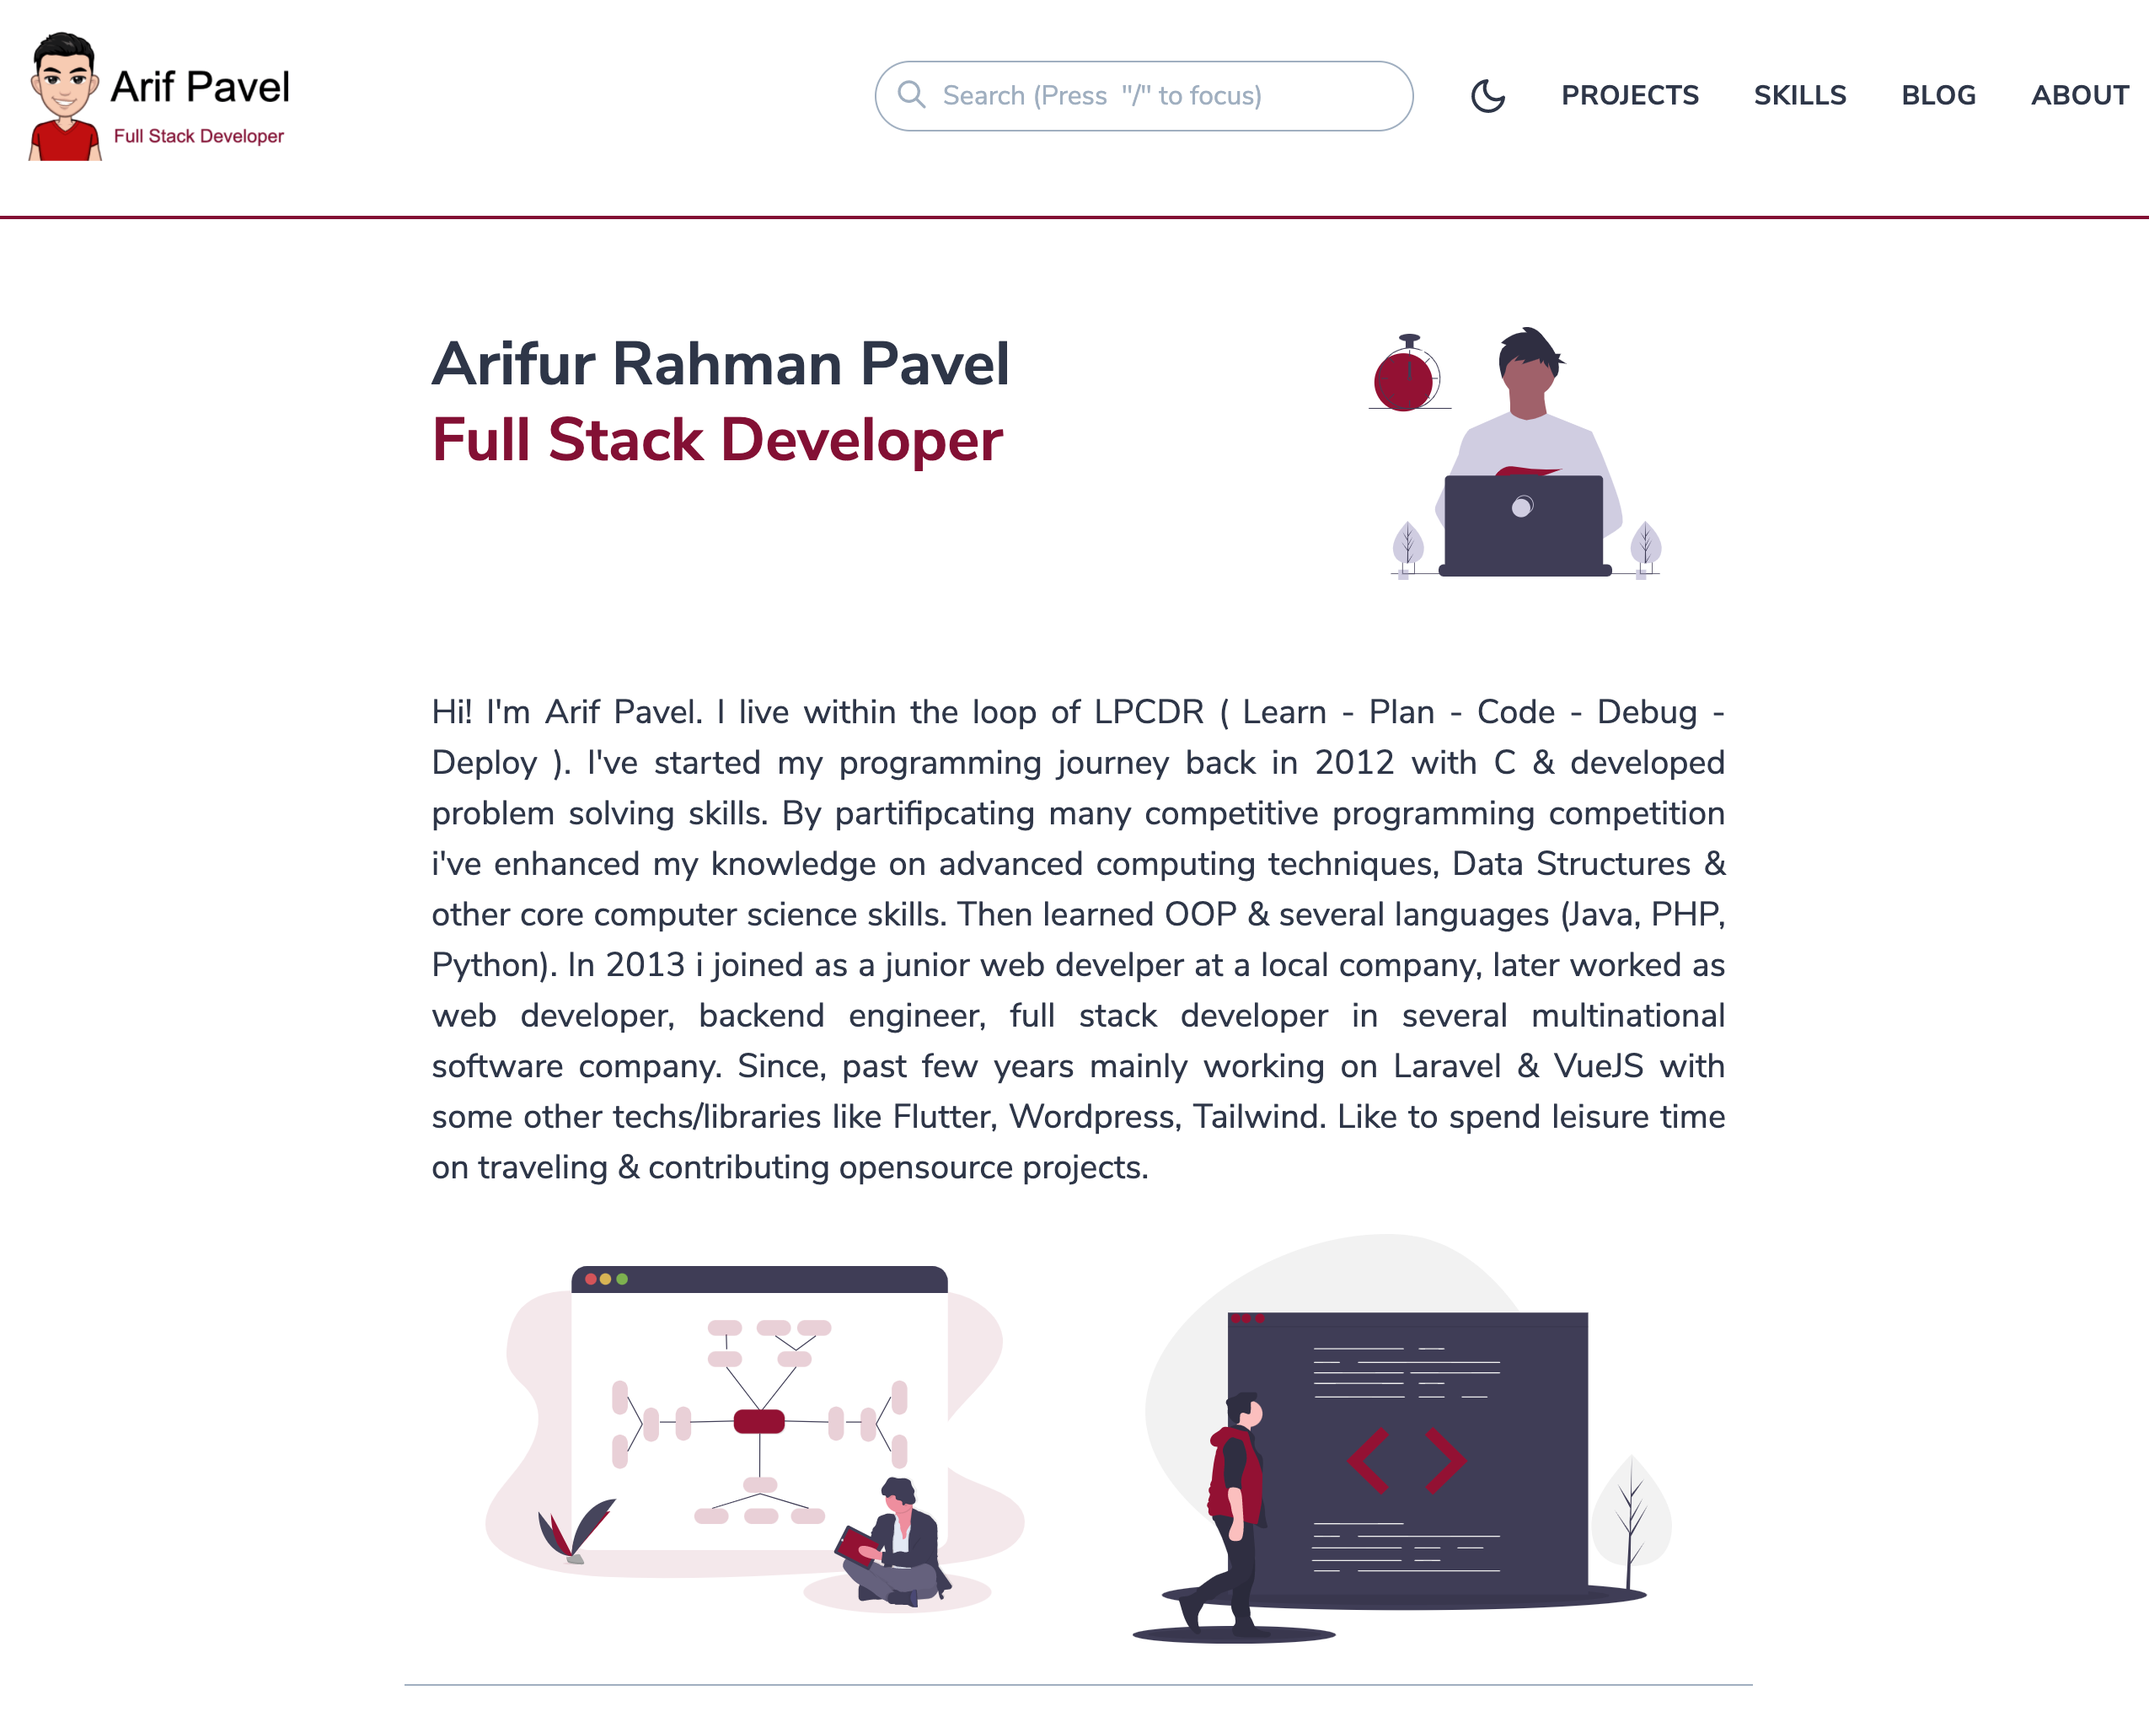
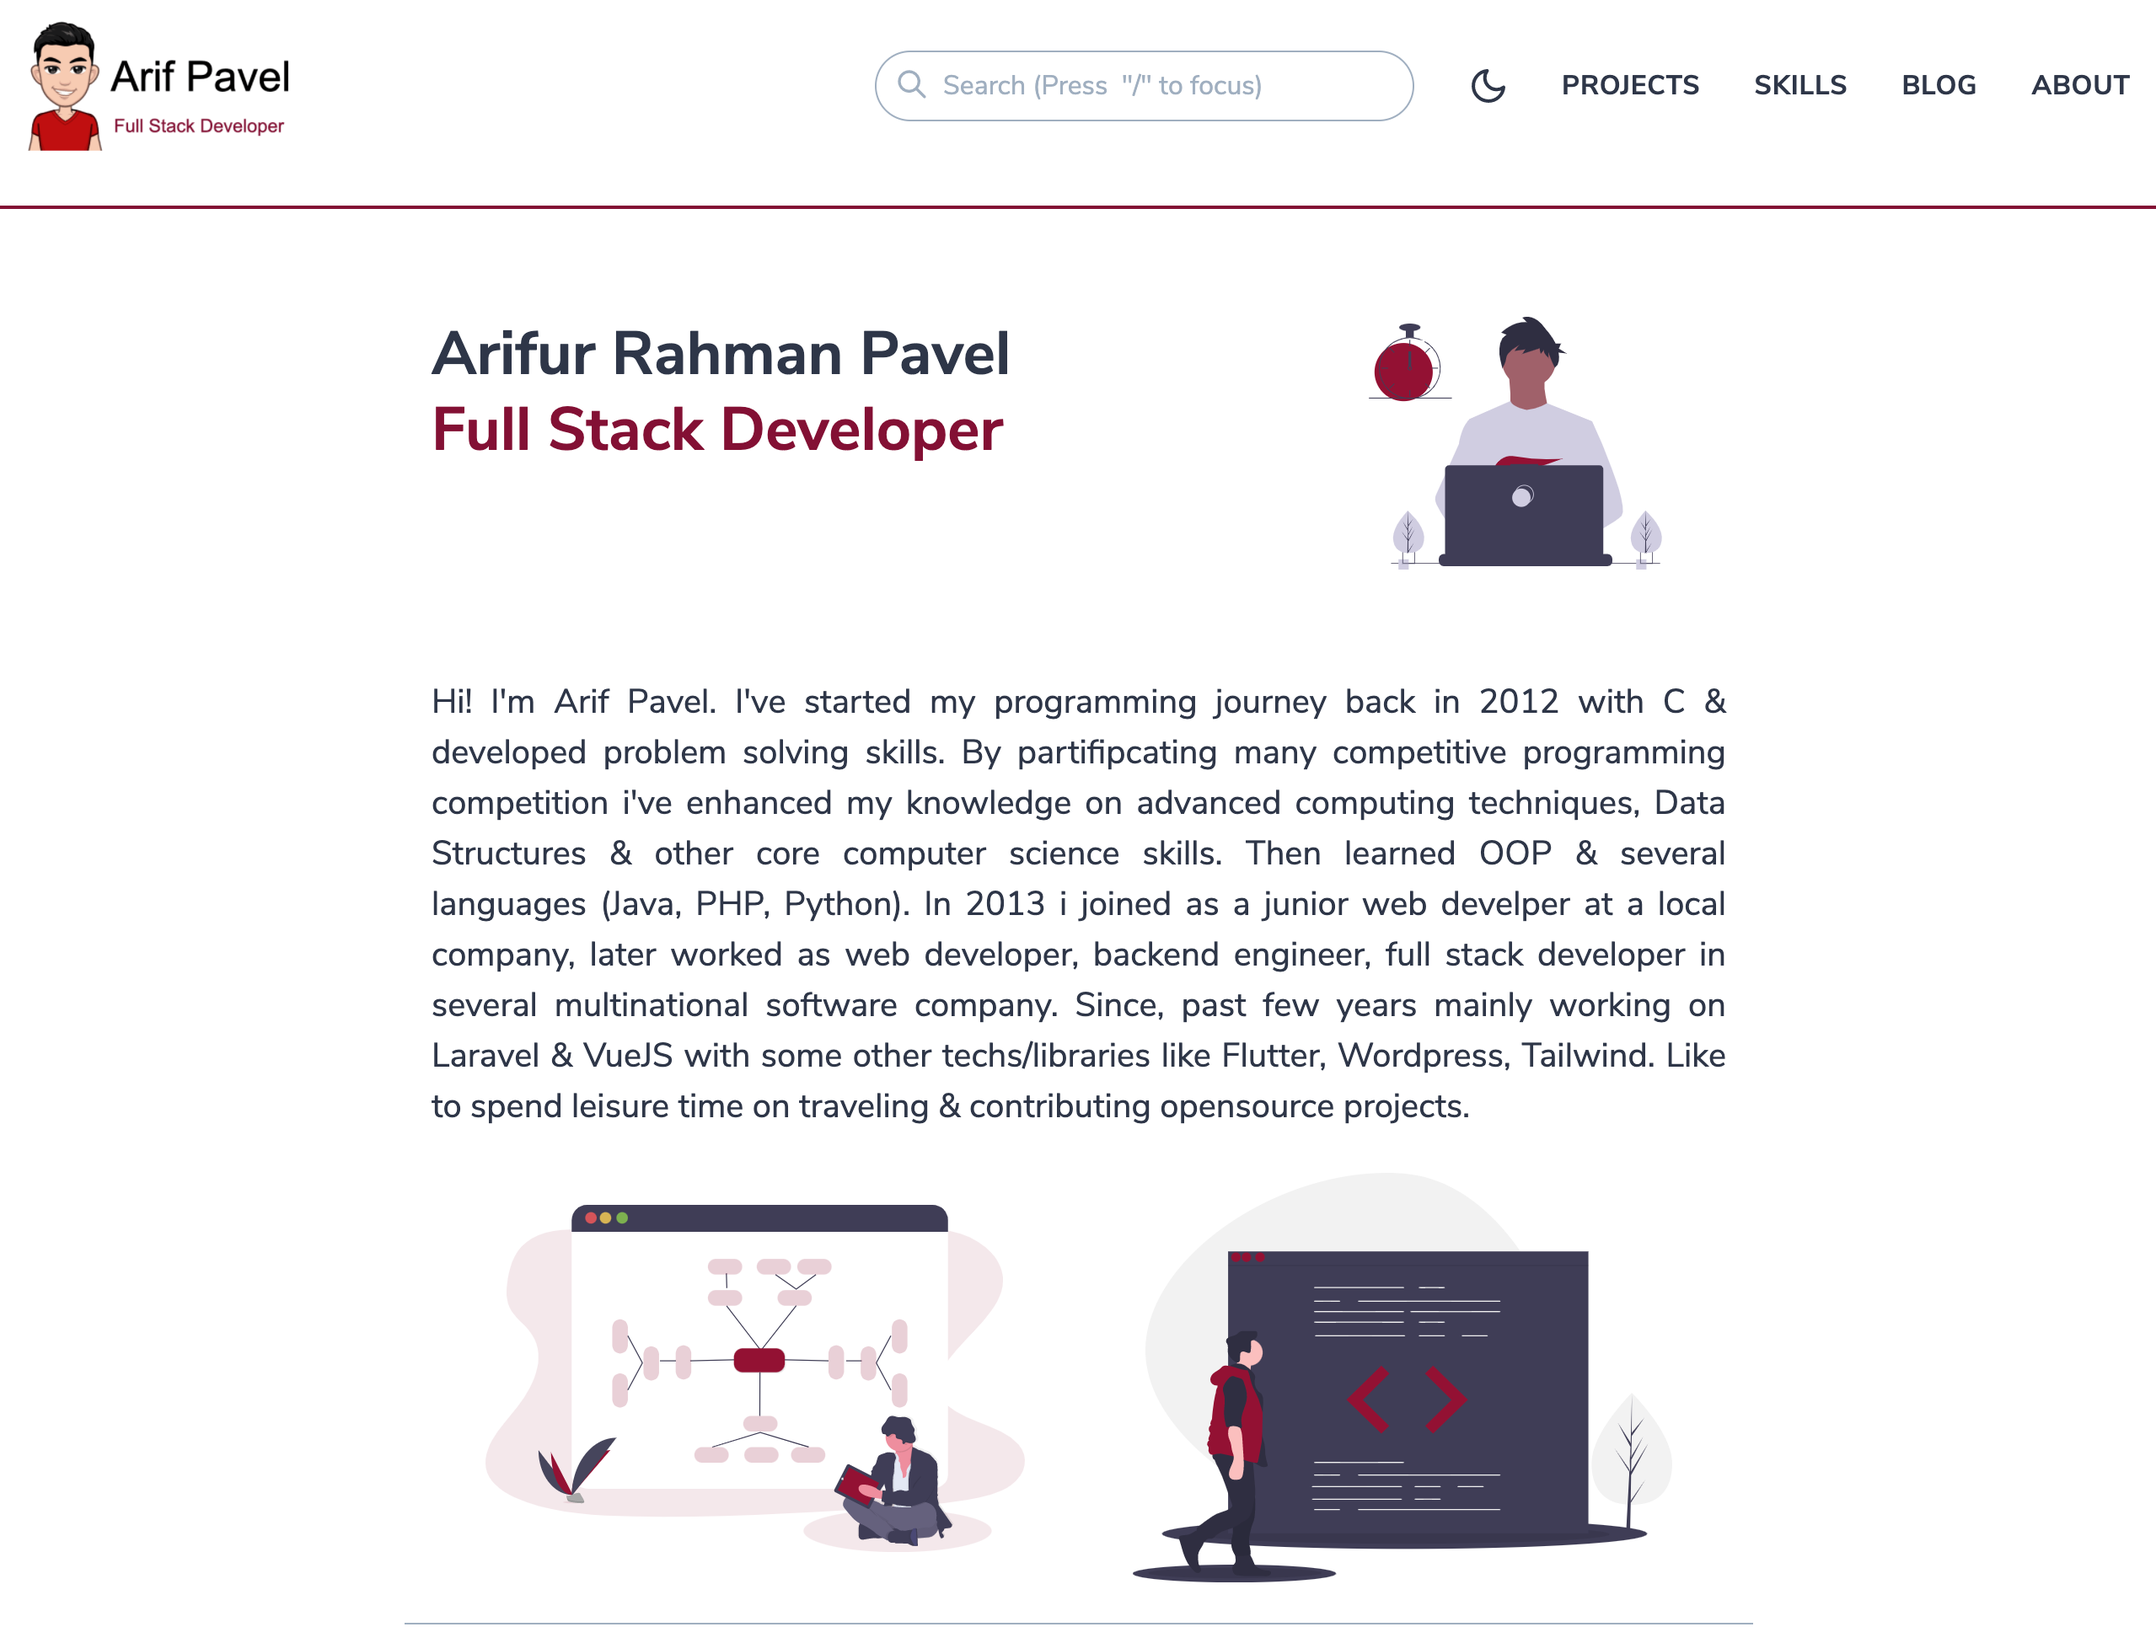
intro updated, screenshot changed

diff --git a/src/pages/Index.vue b/src/pages/Index.vue
@@ -11,7 +11,7 @@
     </div> <!-- end hero -->
 
     <div class="container-inner mx-auto">
-      <p class="text-lg text-justify sm:text-xl">Hi! I'm Arif Pavel. I've started my programming journey back in 2012 with C & developed problem solving skills. By partifipcating many competitive programming competition i've enhanced my knowledge on advanced computing techniques, Data Structures & other core computer science skills. Then learned OOP & several languages (Java, PHP, Python). In 2013 i joined as a junior web develper at a local company, later worked as web developer, backend engineer, full stack developer in several multinational software company. Since, past few years mainly working on Laravel & VueJS with some other techs/libraries like Flutter, Wordpress, Tailwind. Like to spend leisure time on traveling & contributing opensource projects.</p>
+      <p class="text-lg text-justify sm:text-xl">Hi! I'm Arif Pavel. I've started my programming journey back in 2012 with C & developed problem solving skills. Throw partifipcating competitive programming contests i've enhanced my knowledge on advanced computing techniques, Data Structures & other core computer science skills. Then learned OOP & several languages (Java, PHP, Python). In 2013 i joined as a junior web develper at a local company, later worked as web developer, backend engineer, full stack developer in several multinational software company. Since, past few years mainly working on Laravel & VueJS with some other techs/libraries like Flutter, Wordpress, Tailwind. Like to spend leisure time on traveling & contributing opensource projects.</p>
 
       <div class="flex justify-between items-center py-6">
         <div class="w-full sm:w-1/2 px-8 py-8 sm:py-0">
